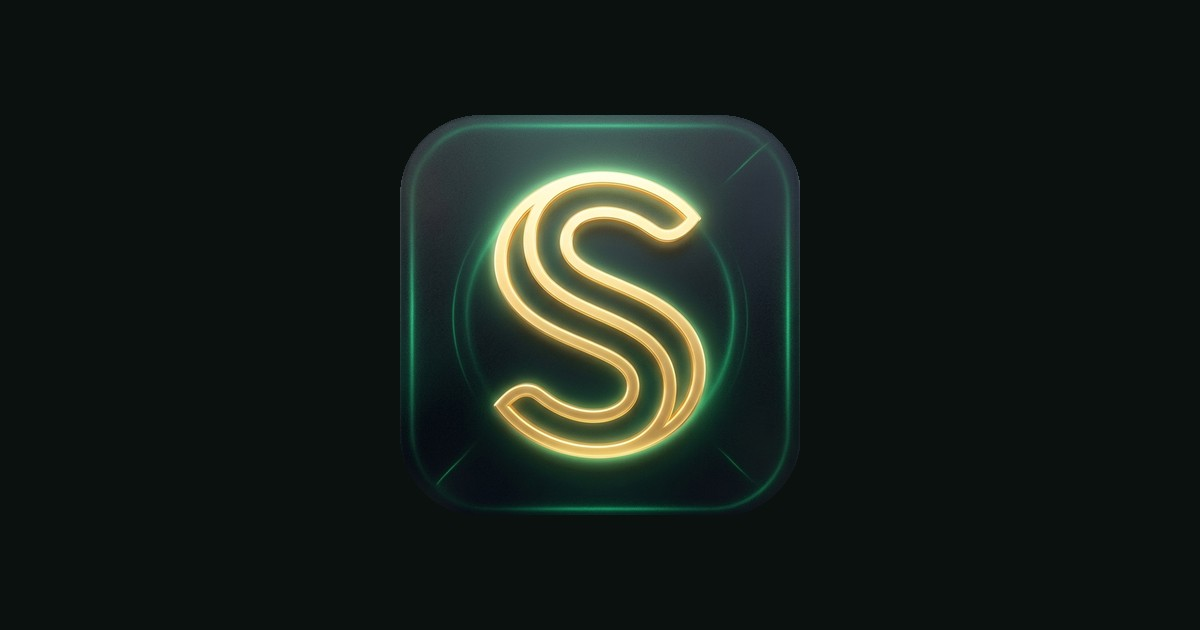
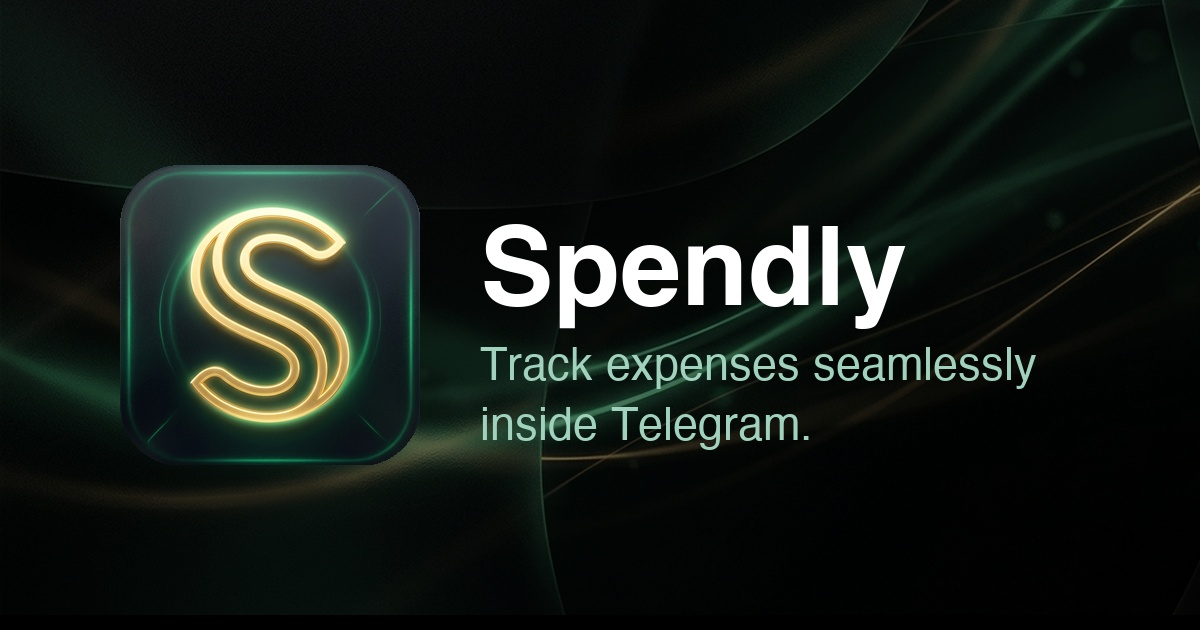
style: generate ultimate premium Open Graph preview image

diff --git a/make_ultimate_og.py b/make_ultimate_og.py
@@ -1,0 +1,45 @@
+from PIL import Image, ImageDraw, ImageFont, ImageFilter
+
+bg_path = "/Users/alexkgm/.gemini/antigravity/brain/1861348b-0eb8-4f04-b835-a94388a879ac/og_background_emerald_1787123210420.jpg"
+icon_path = "public/icon.png"
+
+# Load background (which is 1024x1024 because of DALL-E) and crop/resize to 1200x630
+bg = Image.open(bg_path).convert('RGBA')
+# crop center 1024x537 to get 16:9, then resize to 1200x630
+bg = bg.crop((0, (1024-537)//2, 1024, 1024 - (1024-537)//2))
+bg = bg.resize((1200, 630), Image.Resampling.LANCZOS)
+
+# Add a dark overlay to make text pop
+overlay = Image.new('RGBA', (1200, 630), (0, 0, 0, 140))
+bg = Image.alpha_composite(bg, overlay)
+
+# Load Icon
+icon = Image.open(icon_path).convert('RGBA')
+icon = icon.resize((300, 300), Image.Resampling.LANCZOS)
+
+# Round icon
+mask = Image.new('L', (300, 300), 0)
+draw_mask = ImageDraw.Draw(mask)
+draw_mask.rounded_rectangle([(0, 0), (300, 300)], radius=60, fill=255)
+icon.putalpha(mask)
+
+# Paste icon on left
+bg.paste(icon, (120, 165), mask)
+
+# Draw Text
+draw = ImageDraw.Draw(bg)
+
+try:
+    font_title = ImageFont.truetype("/System/Library/Fonts/Helvetica.ttc", 110, index=1) # Bold
+    font_subtitle = ImageFont.truetype("/System/Library/Fonts/Helvetica.ttc", 45, index=0) # Regular
+except:
+    font_title = ImageFont.load_default()
+    font_subtitle = ImageFont.load_default()
+
+draw.text((480, 220), "Spendly", font=font_title, fill=(255, 255, 255, 255))
+draw.text((480, 345), "Track expenses seamlessly", font=font_subtitle, fill=(160, 210, 190, 255))
+draw.text((480, 405), "inside Telegram.", font=font_subtitle, fill=(160, 210, 190, 255))
+
+final_bg = bg.convert('RGB')
+final_bg.save('public/og-image.jpg', quality=95)
+print("Created stunning OG image!")
